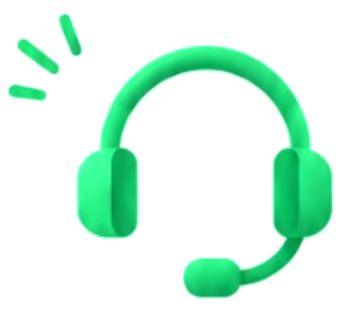
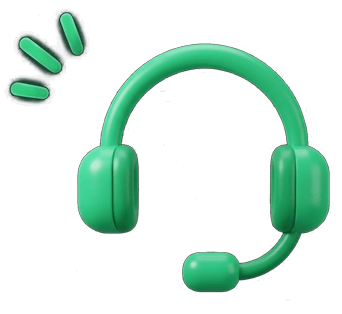
paywall-suporte - 06

Changed region(s): [[0.2047, 0.1146, 0.9942, 0.9745], [0.0, 0.0287, 0.2632, 0.3439]]

diff --git a/src/app/pages/paywall-suporte/paywall-suporte.ts b/src/app/pages/paywall-suporte/paywall-suporte.ts
@@ -8,7 +8,7 @@ import { AppStoreService } from '../../app-store.service';
   imports: [MatIconModule],
   changeDetection: ChangeDetectionStrategy.OnPush,
   template: `
-    <div class="relative w-full max-w-[410px] min-h-screen mx-auto bg-[#f3f9f5] dark:bg-slate-950 font-sans overflow-hidden px-5 pt-5 pb-10 box-border">
+    <div class="relative w-full max-w-[440px] min-h-screen mx-auto bg-[#f3f9f5] dark:bg-slate-950 font-sans overflow-hidden px-5 pt-5 pb-10 box-border">
       <!-- Brilho decorativo do canto superior direito -->
       <div class="pointer-events-none absolute -top-16 -right-20 w-64 h-64 rounded-full bg-[#d4f5df] dark:bg-emerald-500/10 opacity-70 blur-2xl"></div>
 
@@ -28,7 +28,7 @@ import { AppStoreService } from '../../app-store.service';
         </div>
 
         <!-- Imagem do headset: versão clara e versão escura -->
-        <div class="relative shrink-0 w-[130px] h-[130px] rounded-full bg-[#dff5e7] dark:bg-emerald-500/15 flex items-center justify-center">
+        <div class="relative shrink-0 w-[130px] h-[130px] flex items-center justify-center">
           <img src="assets/headset-light.png" alt="" aria-hidden="true" class="w-[104px] h-[104px] object-contain drop-shadow-md dark:hidden" />
           <img src="assets/headset-dark.png" alt="" aria-hidden="true" class="hidden dark:block w-[104px] h-[104px] object-contain drop-shadow-md" />
         </div>
